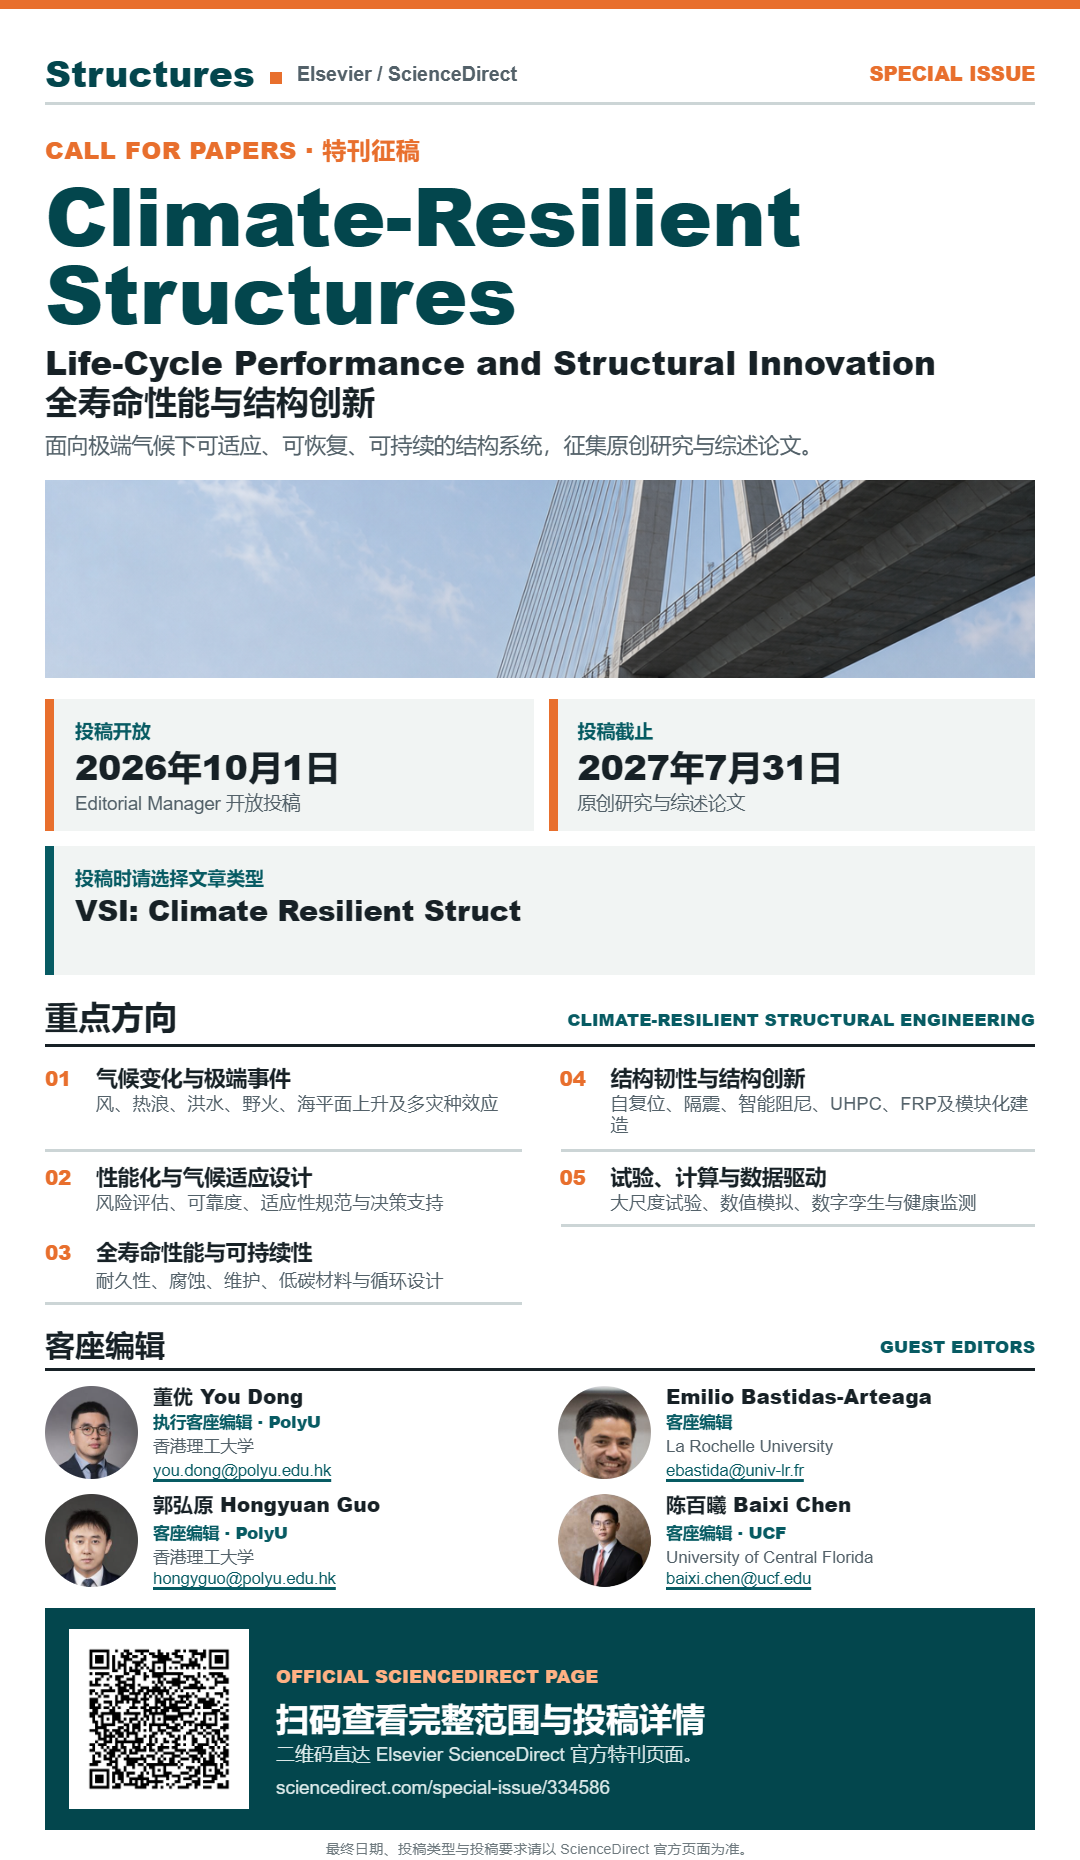
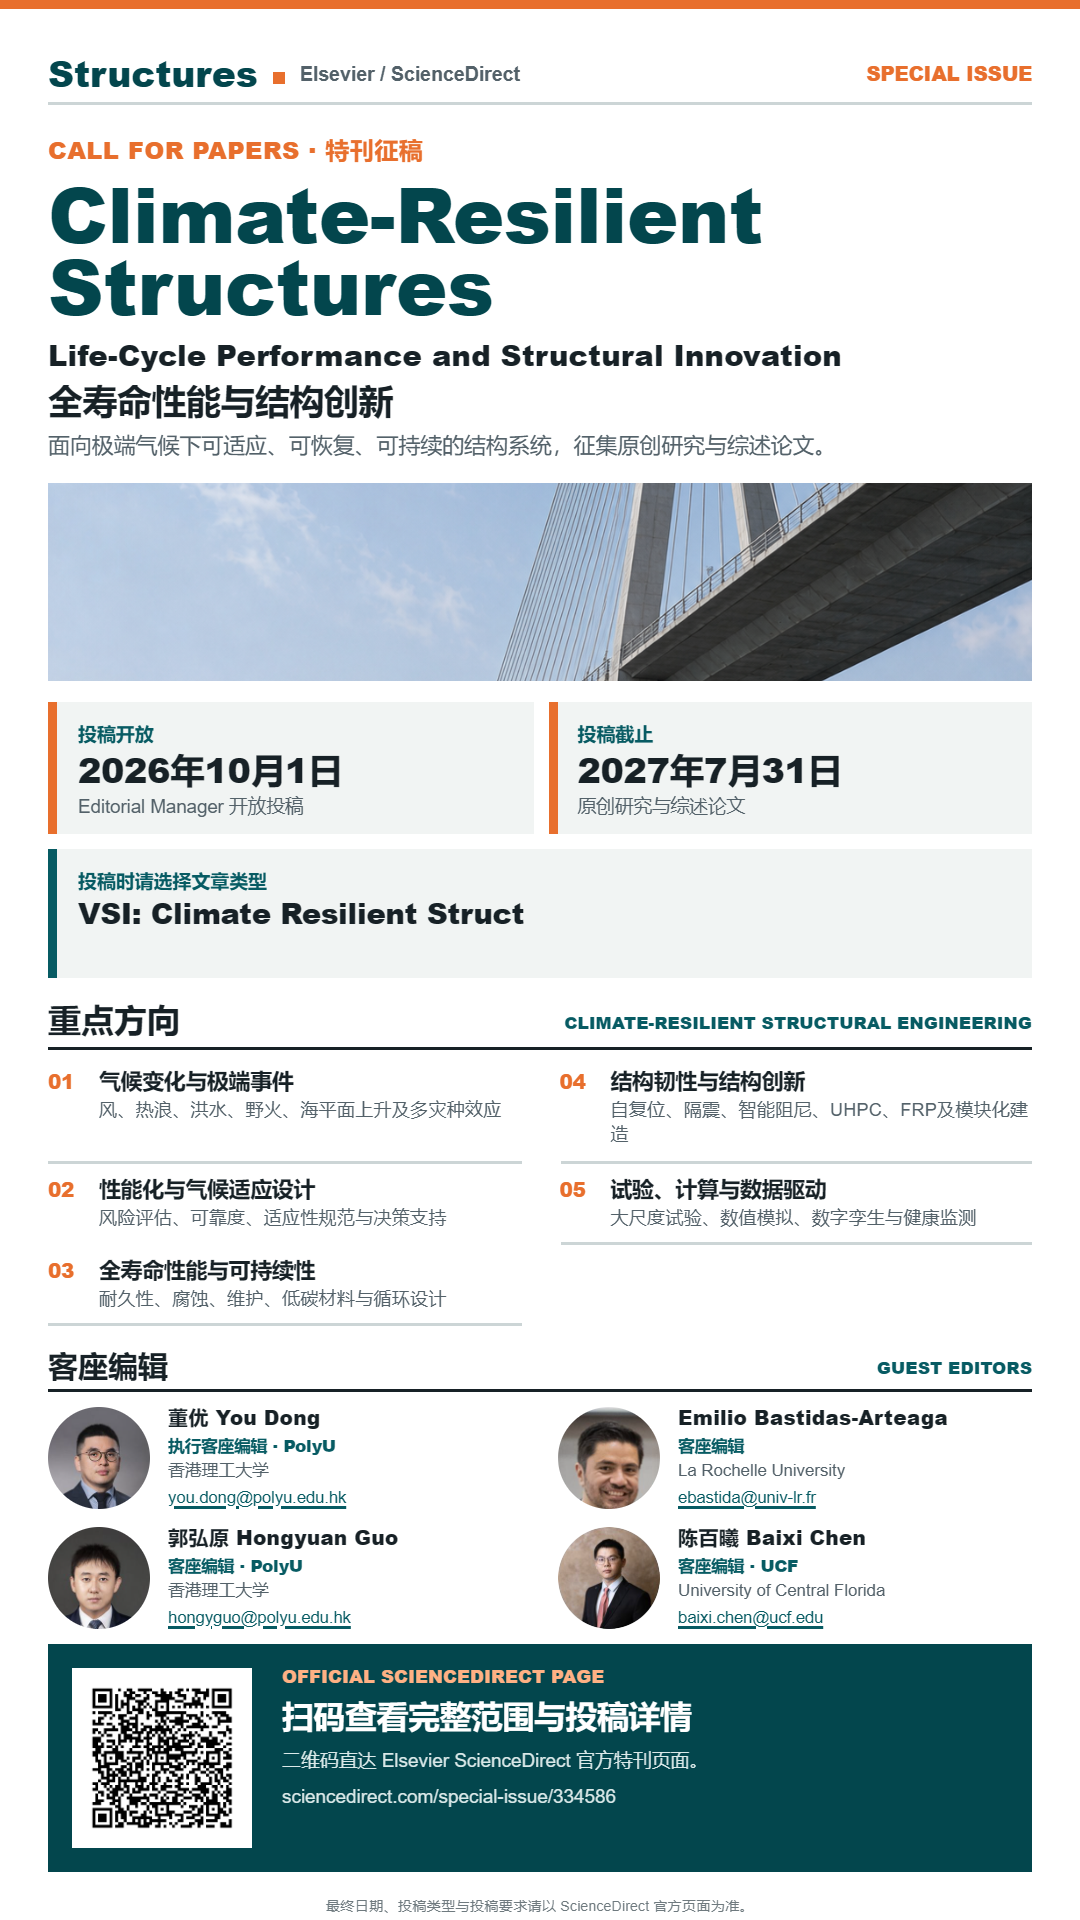
Refine WeChat poster spacing

Changed region(s): [[0.0306, 0.0312, 0.9778, 0.9978], [0.5194, 0.5301, 0.9472, 0.6548]]

diff --git a/moments.html b/moments.html
@@ -16,8 +16,8 @@
     html,body{min-height:100%;background:#dfe4e4}
     body{font-family:var(--font);color:var(--ink);padding:10px 0;-webkit-font-smoothing:antialiased}
     a{color:inherit;text-decoration:none}
-    .stage{width:360px;height:620px;margin:0 auto;transform-origin:top center}
-    .card{position:relative;width:360px;height:620px;overflow:hidden;background:var(--paper);padding:14px 15px 11px;box-shadow:0 8px 28px rgba(18,35,38,.16)}
+    .stage{width:360px;height:640px;margin:0 auto;transform-origin:top center}
+    .card{position:relative;width:360px;height:640px;overflow:hidden;background:var(--paper);padding:14px 16px 11px;box-shadow:0 8px 28px rgba(18,35,38,.16)}
     .card::before{content:"";position:absolute;inset:0 0 auto;height:3px;background:var(--orange)}
     .masthead{height:21px;display:flex;align-items:center;border-bottom:1px solid var(--line)}
     .journal{font-size:12px;font-weight:800;color:var(--teal-dark)}
@@ -26,9 +26,11 @@
     .edition{margin-left:auto;font-size:6.5px;font-weight:800;color:var(--orange);text-transform:uppercase}
     .hero{padding-top:9px}
     .kicker{font-size:8px;font-weight:800;letter-spacing:.02em;color:var(--orange);text-transform:uppercase}
-    h1{margin-top:3px;font-size:27px;line-height:.98;font-weight:800;color:var(--teal-dark)}
-    .subtitle{margin-top:4px;font-size:11px;line-height:1.15;font-weight:800;color:var(--ink)}
-    .intro{margin-top:4px;font-size:7.2px;line-height:1.3;color:var(--muted)}
+    h1{margin-top:4px;font-size:25.5px;line-height:.96;font-weight:800;color:var(--teal-dark)}
+    .subtitle{margin-top:5px;font-weight:800;color:var(--ink)}
+    .subtitle-en{display:block;font-size:9.8px;line-height:1.2}
+    .subtitle-zh{display:block;margin-top:2px;font-size:11.5px;line-height:1.2}
+    .intro{margin-top:4px;font-size:7.3px;line-height:1.45;color:var(--muted)}
     .hero-image{height:66px;margin-top:6px;overflow:hidden;background:var(--wash)}
     .hero-image img{width:100%;height:100%;object-fit:cover;object-position:50% 56%;filter:saturate(.88) contrast(.98)}
     .dates{display:grid;grid-template-columns:1fr 1fr;gap:5px;margin-top:7px}
@@ -45,28 +47,28 @@
     .topic{display:grid;grid-template-columns:13px 1fr;gap:4px;min-height:25px;padding:4px 0;border-bottom:1px solid var(--line)}
     .topic:nth-child(3){border-bottom:0}
     .topic-no{font-size:6.5px;font-weight:800;color:var(--orange)}
-    .topic h3{font-size:7.2px;line-height:1.15;font-weight:800}
-    .topic p{margin-top:1px;font-size:6.1px;line-height:1.2;color:var(--muted)}
+    .topic h3{font-size:7.2px;line-height:1.25;font-weight:800}
+    .topic p{margin-top:1px;font-size:6.1px;line-height:1.35;color:var(--muted)}
     .editors-head{display:flex;align-items:end;margin-top:6px;height:16px;padding-bottom:3px;border-bottom:1.5px solid var(--ink)}
     .editors-head h2{font-size:10px;line-height:1;font-weight:800}
     .editors-head span{margin-left:auto;font-size:5.7px;font-weight:800;color:var(--teal);text-transform:uppercase}
-    .editors{display:grid;grid-template-columns:1fr 1fr;gap:5px 12px;padding-top:5px}
-    .editor{display:grid;grid-template-columns:31px 1fr;gap:5px;min-width:0;align-content:start}
-    .editor img{width:31px;height:31px;object-fit:cover;object-position:50% 18%;border-radius:50%;filter:saturate(.85)}
-    .editor h3{font-size:6.7px;line-height:1.12;font-weight:800;overflow-wrap:anywhere}
-    .editor p{margin-top:1px;font-size:5.6px;line-height:1.15;color:var(--muted)}
-    .editor .email{display:block;margin-top:1px;font-size:5.5px;line-height:1.15;color:var(--teal);overflow-wrap:anywhere;text-decoration:underline;text-underline-offset:1px}
+    .editors{display:grid;grid-template-columns:1fr 1fr;gap:6px 12px;padding-top:5px}
+    .editor{display:grid;grid-template-columns:34px 1fr;gap:6px;min-width:0;align-content:start}
+    .editor img{width:34px;height:34px;object-fit:cover;object-position:50% 18%;border-radius:50%;filter:saturate(.85)}
+    .editor h3{font-size:6.8px;line-height:1.2;font-weight:800;overflow-wrap:anywhere}
+    .editor p{margin-top:1px;font-size:5.6px;line-height:1.3;color:var(--muted)}
+    .editor .email{display:block;margin-top:1px;font-size:5.5px;line-height:1.25;color:var(--teal);overflow-wrap:anywhere;text-decoration:underline;text-underline-offset:1px}
     .editor .role{display:block;margin-top:1px;font-size:5.5px;font-weight:800;color:var(--teal)}
-    .cta{display:grid;grid-template-columns:60px 1fr;gap:9px;align-items:center;margin-top:7px;padding:7px 8px;background:var(--teal-dark);color:#fff}
+    .cta{display:grid;grid-template-columns:60px 1fr;gap:10px;align-items:start;margin-top:5px;padding:8px;background:var(--teal-dark);color:#fff}
     .qr{width:60px;height:60px;padding:3px;background:#fff}
     .qr img{display:block;width:100%;height:100%}
-    .cta-kicker{font-size:6px;font-weight:800;color:#ffb184;text-transform:uppercase}
-    .cta h2{margin-top:2px;font-size:11px;line-height:1.08;font-weight:800}
-    .cta p{margin-top:3px;font-size:6.3px;line-height:1.25;color:#dbe9e9}
-    .cta-url{margin-top:3px;font-size:5.4px;line-height:1.15;color:#ffb184;overflow-wrap:anywhere}
-    .disclaimer{position:absolute;left:15px;right:15px;bottom:1px;text-align:center;font-size:4.8px;color:#6f7a7f}
-    @media screen and (min-width:1200px){.stage{width:1080px;height:1860px}.card{transform:scale(3);transform-origin:top left}}
-    @media print{html,body{width:100mm;height:172.2mm;background:#fff;padding:0}.stage{width:100mm;height:172.2mm;transform:none!important;margin:0}.card{width:100mm;height:172.2mm;box-shadow:none}}
+    .cta-kicker{display:block;font-size:6px;line-height:1;font-weight:800;color:#ffb184;text-transform:uppercase}
+    .cta h2{margin-top:4px;font-size:10.5px;line-height:1.18;font-weight:800}
+    .cta p{margin-top:4px;font-size:6.3px;line-height:1.35;color:#dbe9e9}
+    .cta-url{margin-top:4px;font-size:5.4px;line-height:1.25;color:#ffb184;overflow-wrap:anywhere}
+    .disclaimer{position:absolute;left:16px;right:16px;bottom:1px;text-align:center;font-size:4.8px;line-height:1.2;color:#6f7a7f}
+    @media screen and (min-width:1200px){.stage{width:1080px;height:1920px}.card{transform:scale(3);transform-origin:top left}}
+    @media print{html,body{width:100mm;height:177.8mm;background:#fff;padding:0}.stage{width:100mm;height:177.8mm;transform:none!important;margin:0}.card{width:100mm;height:177.8mm;box-shadow:none}}
   </style>
 </head>
 <body>
@@ -78,7 +80,7 @@
       <section class="hero">
         <p class="kicker">Call for Papers · 特刊征稿</p>
         <h1>Climate-Resilient<br>Structures</h1>
-        <p class="subtitle">Life-Cycle Performance and Structural Innovation<br>全寿命性能与结构创新</p>
+        <p class="subtitle"><span class="subtitle-en">Life-Cycle Performance and Structural Innovation</span><span class="subtitle-zh">全寿命性能与结构创新</span></p>
         <p class="intro">面向极端气候下可适应、可恢复、可持续的结构系统，征集原创研究与综述论文。</p>
         <figure class="hero-image"><img src="assets/bridge-poster.png" alt="Climate-resilient bridge infrastructure"></figure>
       </section>
@@ -101,7 +103,7 @@
         <div class="editors-head"><h2 id="editors-title">客座编辑</h2><span>Guest Editors</span></div>
         <div class="editors">
           <article class="editor"><img src="assets/you-dong.jpg" alt="You Dong"><div><h3>董优 You Dong</h3><span class="role">执行客座编辑 · PolyU</span><p>香港理工大学</p><a class="email" href="mailto:you.dong@polyu.edu.hk">you.dong@polyu.edu.hk</a></div></article>
-          <article class="editor"><img src="assets/emilio-bastidas-arteaga.jpg" alt="Emilio Bastidas-Arteaga"><div><h3>Emilio Bastidas-Arteaga</h3><span class="role">客座编辑</span><p>La Rochelle University</p><a class="email" href="mailto:ebastida@univ-lr.fr">ebastida@univ-lr.fr</a></div></article>
+          <article class="editor"><img src="assets/emilio-bastidas-arteaga.jpg" alt="Emilio Bastidas-Arteaga"><div><h3>Emilio Bastidas-Arteaga</h3><span class="role">客座编辑 · LRU</span><p>La Rochelle University</p><a class="email" href="mailto:ebastida@univ-lr.fr">ebastida@univ-lr.fr</a></div></article>
           <article class="editor"><img src="assets/hongyuan-guo.jpg" alt="Hongyuan Guo"><div><h3>郭弘原 Hongyuan Guo</h3><span class="role">客座编辑 · PolyU</span><p>香港理工大学</p><a class="email" href="mailto:hongyguo@polyu.edu.hk">hongyguo@polyu.edu.hk</a></div></article>
           <article class="editor"><img src="assets/baixi-chen.jpg" alt="Baixi Chen"><div><h3>陈百曦 Baixi Chen</h3><span class="role">客座编辑 · UCF</span><p>University of Central Florida</p><a class="email" href="mailto:baixi.chen@ucf.edu">baixi.chen@ucf.edu</a></div></article>
         </div>
